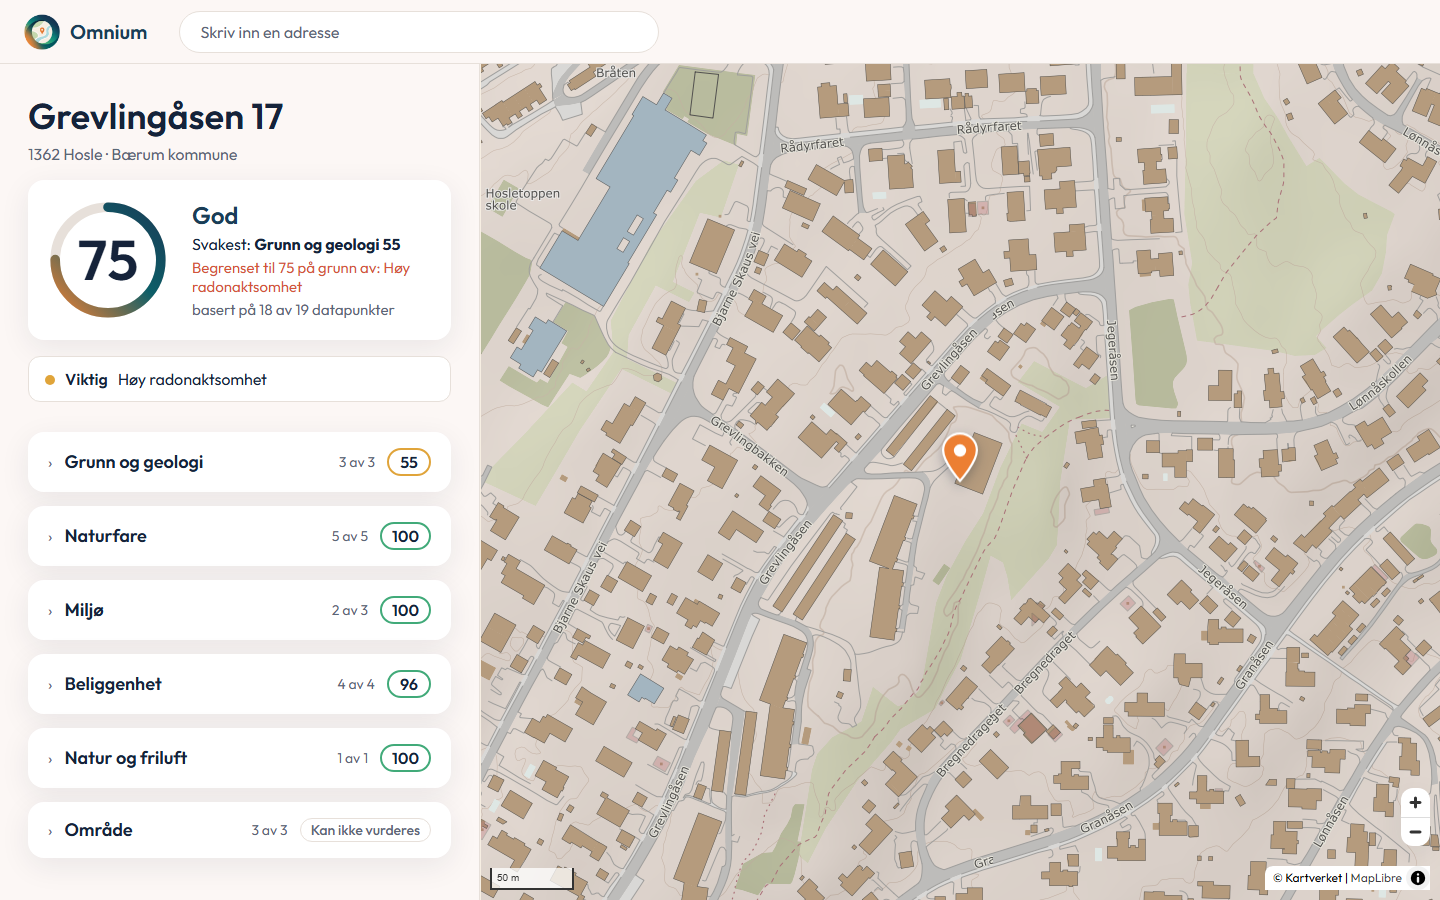
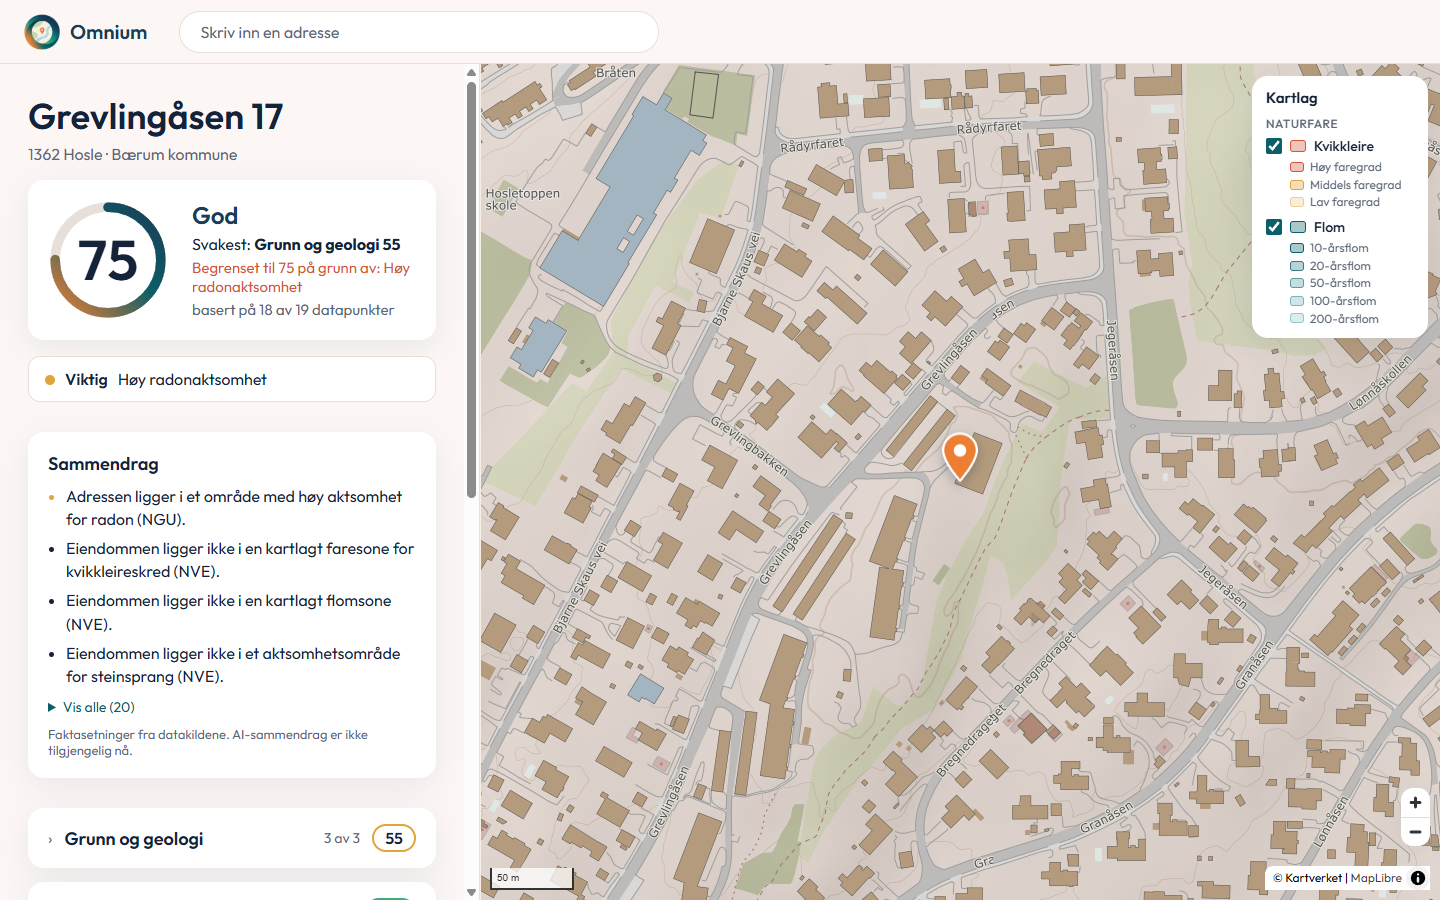
DEMO.md: map layers and summary card are in; screenshot 5, retake 2 and 4; port check in checklist

diff --git a/docs/DEMO.md b/docs/DEMO.md
@@ -39,7 +39,7 @@ Times are a guide. Bold = what you click or show.
 **1:30–2:15 — Kontrasten: Arendalsgata 22**
 **Go back, type "Arendalsgata 22", pick it.**
 > Så ser vi en leilighet på Sagene i Oslo. Like nær buss og skole. Men øverst ser du advarsler, den alvorligste først: eiendommen ligger i en faresone for kvikkleireskred med høy faregrad, fra NVE. I tillegg veistøy på 65–70 dB og et registrert sted med mulig forurenset grunn i nærheten.
-**Point at the warnings and the low Naturfare score.** (Once Erik adds the quick-clay layer to the map, also point at the zone around the pin.)
+**Point at the warnings and the low Naturfare score, then at the red quick-clay zone around the pin on the map (screenshot 5).**
 **Point at the score and the warnings listed under it.**
 > Samlet karakter faller fra 75 til 20, og naturfare fra 100 til 30. Og siden sier hvorfor: kvikkleiren, radon og støy holder karakteren nede. Den alvorligste risikoen står alltid først, og den kan ikke gjemmes i et snitt.
 
@@ -50,7 +50,7 @@ Times are a guide. Bold = what you click or show.
 **2:40–3:00 — Avslutning**
 > Omnium bruker bare åpne, offentlige data, og dekker i dag Oslo og Akershus. Neste steg er hele Norge. Én adresse, all offentlig informasjon, på sekunder.
 
-If the AI summary works on the day, show it on the Arendalsgata page at 1:30 and say: *"Et kort sammendrag skrevet av AI, bare fra faktaene vi har, og merket som AI-generert."*
+The "Sammendrag" card sits under the warnings. With `ANTHROPIC_API_KEY` in `.env` it is written by AI and labelled "AI-generert"; without the key it lists the plain fact sentences from `docs/FACTS.md` (still correct, no label). If the AI version works on the day, show it on the Arendalsgata page at 1:30 and say: *"Et kort sammendrag skrevet av AI, bare fra faktaene vi har, og merket som AI-generert."*
 
 ## Ready for the demo?
 
@@ -62,10 +62,10 @@ What the pitch needs, and who it depends on. Update this as things land.
 | Start page with address search | Works. Search shows two Grevlingåsen 17: pick 1362 Hosle | Erik |
 | Address page: warnings, category cards, data points with source | Works | Erik |
 | "Ikke tilgjengelig" for missing data | Works (e.g. "Veistøy (strategisk støykart)" under Miljø on Grevlingåsen) | Erik |
-| Quick-clay zone visible on the map | Not yet: data at `/api/nve_kvikkleire`, no map layer | Erik |
+| Quick-clay zone visible on the map | Works: quick-clay and flood zones on the address map, on by default, with a "Kartlag" panel | Erik |
 | Overall rating (a number) | Works: Grevlingåsen 75, Arendalsgata 20 (caps stack: high 40, medium 75, minus 10 per extra serious warning) | Lukas |
 | Explanations under each data point | Main text from `docs/TEXTS.md` is in the profile. Per-outcome texts ("Når ...") not yet | Lukas |
-| AI summary | Endpoint works with the key in `.env` and follows `docs/FACTS.md`. Not on the page yet | Erik |
+| AI summary | On the page ("Sammendrag" card). AI text needs the key in `.env`; without it the card shows the fact sentences | Erik, Lukas |
 | Map tiles | Take 3–5 seconds to appear the first time. Open both pages before presenting | — |
 
 For the 2:15 part, open Miljø on Grevlingåsen: the strategic noise map shows "Ikke tilgjengelig".
@@ -82,6 +82,7 @@ Timing: the spoken text is about 280 words, about 2:10 at a calm pace, which lea
 - [ ] Rehearse once with a timer. Cut words, not clicks, if it runs long.
 
 **One hour before**
+- [ ] Stop every other `npm run dev` on the laptop (old clones too). If port 5173 or 3000 is taken, the page can silently come from an old copy. Check that Vite prints `Local: http://localhost:5173/`.
 - [ ] `npm run dev` running, http://localhost:5173 open in a clean browser window. Zoom so the back row can read it.
 - [ ] Open each demo address once, so the data and AI summary are cached and load fast.
 - [ ] Wi-Fi works (the address search and map tiles need the internet). Have a phone hotspot ready.
@@ -101,7 +102,7 @@ Saved in `docs/demo/` at 1440×900. Retake them after big changes (headless Edge
 2. `2-grevlingasen.png`: the Grevlingåsen 17 page, top part (no warnings, scores). **Taken.**
 3. `3-data-point.png`: the Miljø card opened on Grevlingåsen, with explanations, sources and one "Ikke tilgjengelig". **Taken.** It also covers 6.
 4. `4-arendalsgata.png`: the Arendalsgata 22 page with the quick-clay warning at the top. **Taken.**
-5. `5-map.png`: the map with the quick-clay zone around Arendalsgata.
+5. `5-map.png`: the map with the quick-clay zone around Arendalsgata. **Taken.** Screenshots 2 and 4 were retaken at the same time, with the map layers and the summary card (fact sentences, no AI key).
 6. `6-missing.png`: a data point shown as "Ikke tilgjengelig".
 
 Not taken yet: 5 needs the quick-clay map layer.
